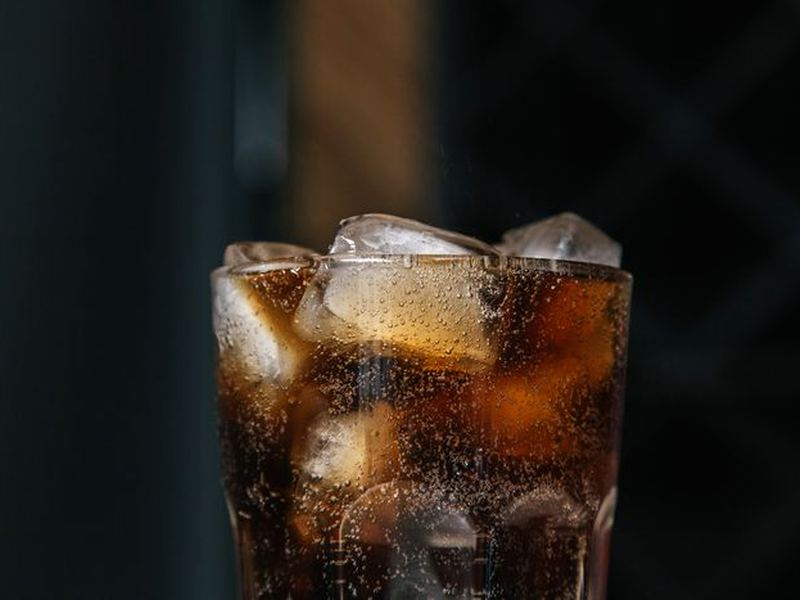
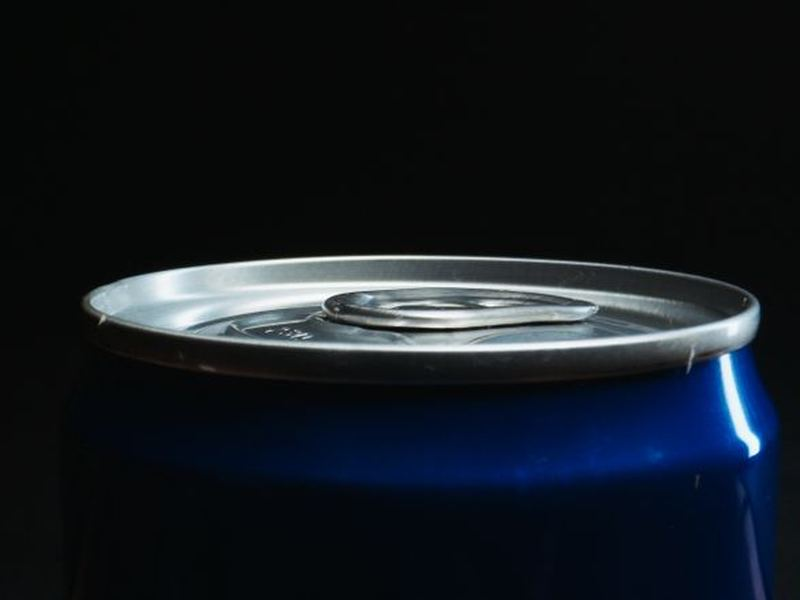
fix: troca fotos do onion rings e refrigerante
Onion Rings tinha uma pimenta espetada do lado (visual estranho, nao
parecia comida); Refrigerante Lata mostrava um copo com gelo em vez de
uma lata -- nao batia com o nome do produto. Trocadas por fotos mais
limpas: onion rings sem enfeite estranho, e uma lata de verdade (sem
marca visivel) pro refrigerante.

diff --git a/frontend/images/seed/CREDITS.md b/frontend/images/seed/CREDITS.md
@@ -12,8 +12,8 @@ mantidos por transparência acadêmica, não por obrigação de licença.
 | `x-tudo.jpg` | [Cheeseburger on Table](https://www.pexels.com/photo/cheeseburger-on-table-2089717/) | Adrian Dorobantu |
 | `x-vegetariano.jpg` | [Burger With Green Leafy Vegetable and Cheese on Black Plate](https://www.pexels.com/photo/burger-with-green-leafy-vegetable-and-cheese-on-black-plate-1199958/) | Valeria Boltneva |
 | `batata-frita.jpg` | [Close Up Photo of French Fries](https://www.pexels.com/photo/close-up-photo-of-french-fries-4109234/) | Polina Tankilevitch |
-| `onion-rings.jpg` | [Onion rings and ketchup with chili peppers on blue surface](https://www.pexels.com/photo/onion-rings-and-ketchup-with-chili-peppers-on-blue-surface-6941051/) | Alena Shekhovtcova |
-| `refrigerante.jpg` | [Glass of Soda With Ice Cubes](https://www.pexels.com/photo/glass-of-soda-with-ice-cubes-8880742/) | cottonbro studio |
+| `onion-rings.jpg` | [Onion Rings in Close-up Photography](https://www.pexels.com/photo/onion-rings-in-close-up-photography-8880734/) | Ron Lach |
+| `refrigerante.jpg` | [Close-up Shot of a Tin Can](https://www.pexels.com/photo/close-up-shot-of-a-tin-can-7033796/) | Tima Miroshnichenko |
 | `suco.jpg` | [Orange Juice in Clear Plastic Glass](https://www.pexels.com/photo/orange-juice-in-clear-plastic-glass-6416553/) | Charlotte May |
 
 `placeholder.svg` continua sendo uma ilustração própria (sem foto associada), usada
